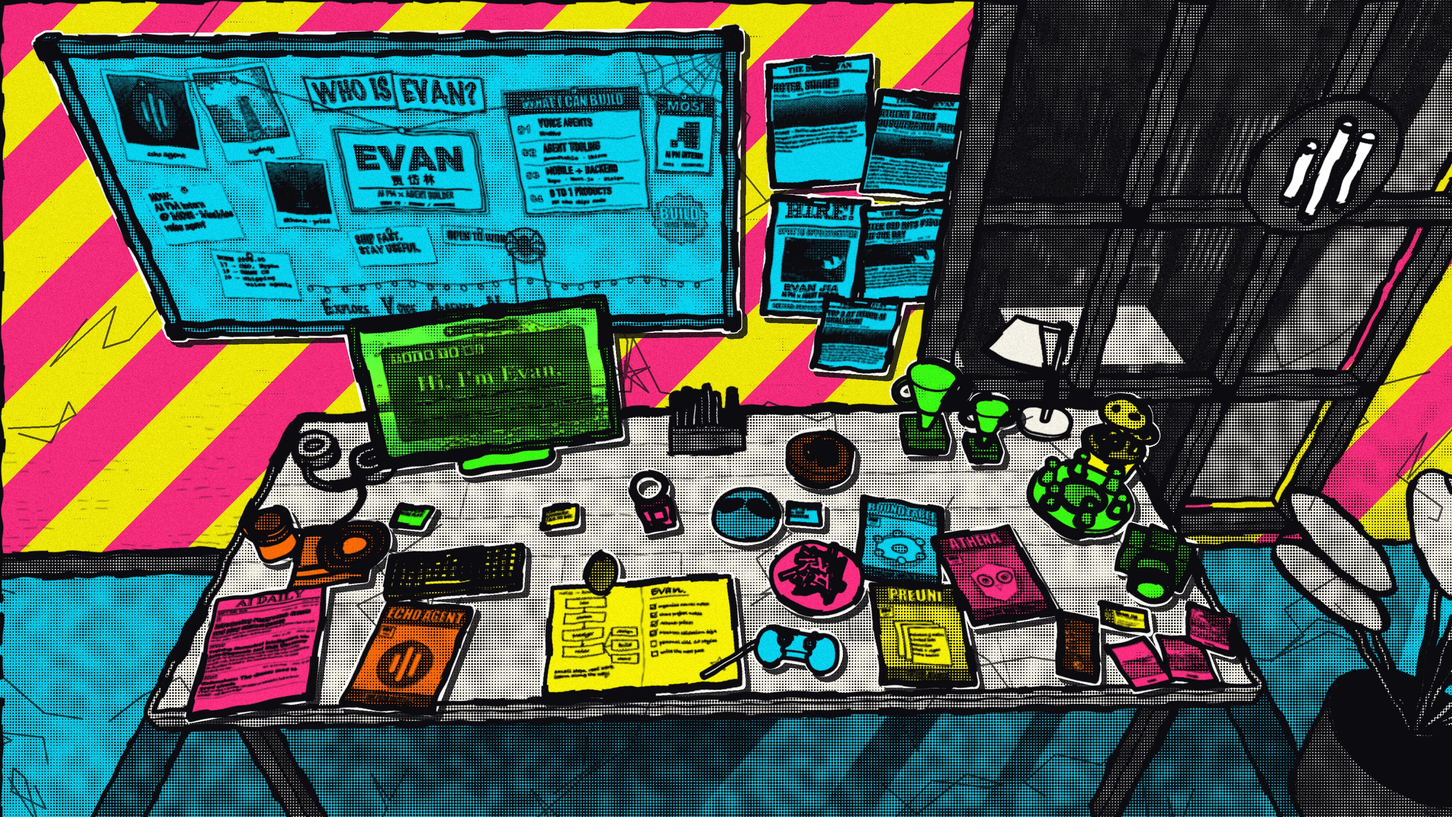
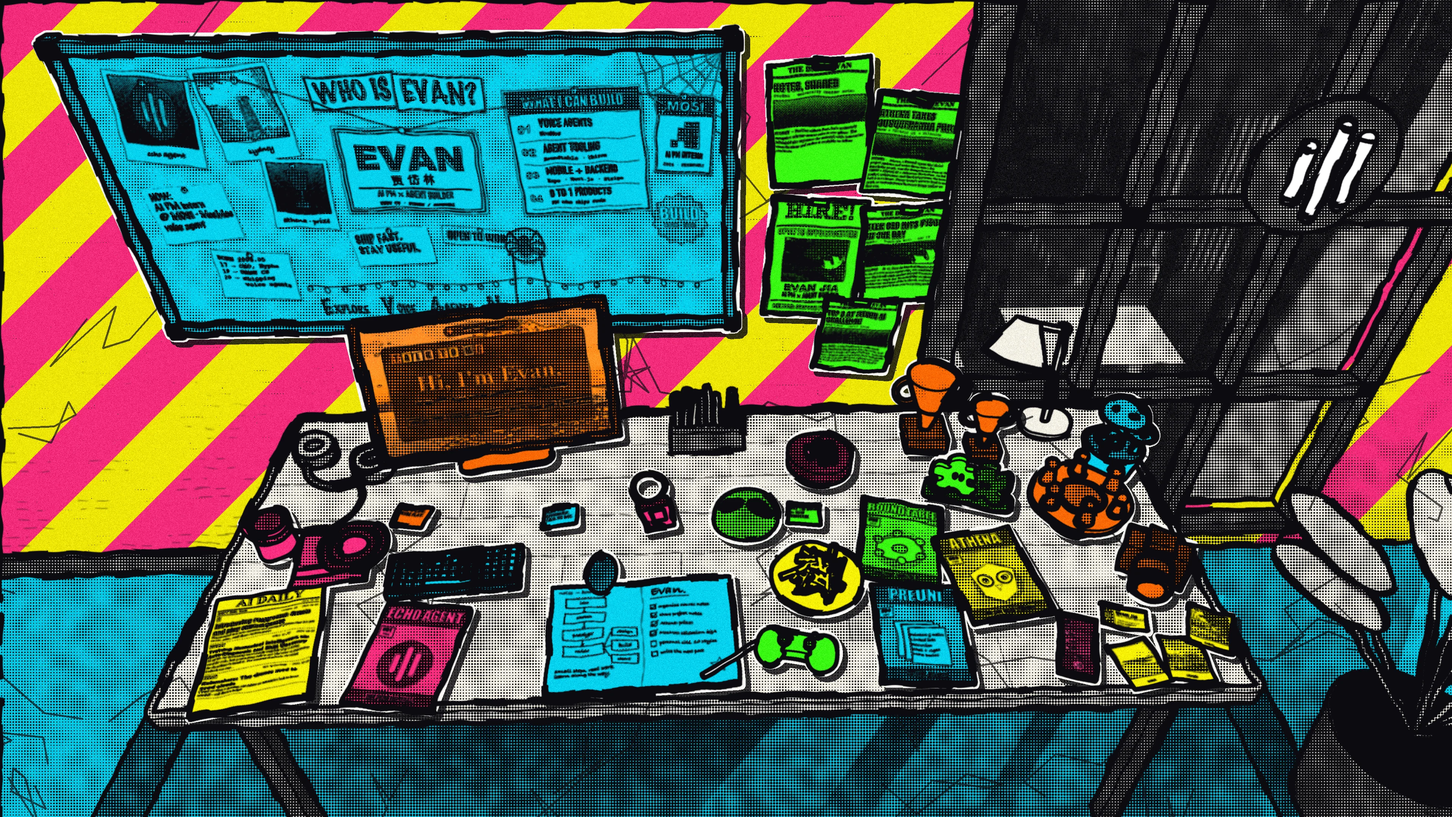
feat(builderspace): put the club on the desk and in its own panel
Evan is president of BuilderSpace, a bilingual builders club that
started at UNSW (builderspace.dev). The club's mascots, an amber and a
black puzzle piece fitted together, now stand under the desk lamp as a
figurine: textures.py traces both outlines and the eyes from the club
logo, and layout.py extrudes them with a bevel, a glowing rim on the
black piece and a dark stand. The desk is re-rendered in all ten
universes; every other hotspot keeps its box.

The figurine opens a president panel linking the club site, which also
gets a timeline entry, an intro sentence, a chat topic and a line in
Echo Agent's prompt. The club is still applying for Arc affiliation, so
the copy says "started at UNSW" and a test rejects wording that implies
official status. Asset versions are bumped so visitors fetch the new
renders.

diff --git a/002/site/js/content.js b/002/site/js/content.js
@@ -34,6 +34,7 @@ export const HOTS = {
   notebook: { panel: 'blog' },
   hypha: { panel: 'hypha' },
   mosi: { panel: 'mosi' },
+  builderspace: { panel: 'builderspace' },
   news: { panel: 'news' },
   photos: { panel: 'photos' },
   projects: { panel: 'projects' },
@@ -60,6 +61,7 @@ export const LABELS = {
   notebook: { zh: '博客 · 日记', en: 'Blog · Journal' },
   hypha: { zh: 'Hypha · 17 岁的创业', en: 'Hypha · founder at 17' },
   mosi: { zh: '模思智能 · 实习', en: 'MOSI · internship' },
+  builderspace: { zh: 'BuilderSpace · 创客社主席', en: 'BuilderSpace · club president' },
   news: { zh: '今日新闻', en: 'News desk' },
   photos: { zh: '摄影', en: 'Photography' },
   projects: { zh: '全部项目', en: 'All projects' },
@@ -80,12 +82,12 @@ export const PANELS = {
     body: L(
       [
         '我是贾岱林，英文名 Evan，20 岁，在悉尼的新南威尔士大学（UNSW）读计算机科学，方向是机器学习（ML）和计算机视觉（CV）。上大学之前，我在北京带过一家 7 个人的 Web3 公司，核心产品做到过单日营业额 10 万元以上。',
-        '现在我主要做语音 Agent。白天在上海模思智能做 AI 产品经理实习，负责 MosMos 的语音 Agent：产品经理的活干完，我会自己把代码写完、推上线。',
+        '现在我主要做语音 Agent。白天在上海模思智能做 AI 产品经理实习，负责 MosMos 的语音 Agent：产品经理的活干完，我会自己把代码写完、推上线。课外，我在 UNSW 和两位同学发起了 BuilderSpace 创客社，任主席，带大家一起把想法做成能用的东西。',
         '我喜欢从头到尾自己负责一件事：设计、前端、后端、部署、推广。野心这件事上我比较直白：想做一个真正有用的东西，宁可瞄得太高打偏，也不想瞄低了打中。',
       ],
       [
         'I’m Evan Jia (贾岱林), 20, studying Computer Science at UNSW in Sydney, focusing on machine learning (ML) and computer vision (CV). Before university I ran a seven-person Web3 company in Beijing and took its core product past ¥100K in single-day revenue.',
-        'These days I mostly build voice agents. By day I’m an AI product manager intern at MOSI in Shanghai, owning the voice agent in MosMos: once the PM work is done, I write the code and ship it myself.',
+        'These days I mostly build voice agents. By day I’m an AI product manager intern at MOSI in Shanghai, owning the voice agent in MosMos: once the PM work is done, I write the code and ship it myself. Outside work I started BuilderSpace, a builders club at UNSW, with two classmates, and I’m its president: we help people turn ideas into things that work.',
         'I like owning a thing end to end: design, frontend, backend, deploy, launch. I’m ambitious in a fairly plain way: I want to build something that actually matters, and I’d rather aim too high and miss than aim low and hit.',
       ],
     ),
@@ -101,8 +103,8 @@ export const PANELS = {
       {
         heading: L('时间线', 'Timeline'),
         items: L(
-          ['2023.7 – 2024.7　创立 Hypha，任 CEO，带 7 人团队', '2025.2　入读 UNSW 计算机科学', '2025.6 – 2026.5　PreUni：课程笔记分享站', '2026.6 – 7　Roundtable 开源，拿下飞书 AI 校园挑战赛 Agent 赛道 Top 3', '2026.7 – 8　Athena 获 Susquehanna Prize；Akeso 入围 ICON × Lyra 决赛', '2026.9 至今　模思智能 AI 产品经理实习'],
-          ['Jul 2023 – Jul 2024　Founded Hypha, CEO of a team of seven', 'Feb 2025　Started Computer Science at UNSW', 'Jun 2025 – May 2026　PreUni: course notes, shared', 'Jun – Jul 2026　Open-sourced Roundtable; Top 3 in the Agent track of the Feishu AI Campus Challenge', 'Jul – Aug 2026　Athena won the Susquehanna Prize; Akeso reached the ICON × Lyra final', 'Sep 2026 – now　AI PM intern at MOSI'],
+          ['2023.7 – 2024.7　创立 Hypha，任 CEO，带 7 人团队', '2025.2　入读 UNSW 计算机科学', '2025.6 – 2026.5　PreUni：课程笔记分享站', '2026.6 – 7　Roundtable 开源，拿下飞书 AI 校园挑战赛 Agent 赛道 Top 3', '2026.7 – 8　Athena 获 Susquehanna Prize；Akeso 入围 ICON × Lyra 决赛', '2026.9 至今　模思智能 AI 产品经理实习', '2026.10 至今　和两位同学发起 BuilderSpace 创客社，任主席'],
+          ['Jul 2023 – Jul 2024　Founded Hypha, CEO of a team of seven', 'Feb 2025　Started Computer Science at UNSW', 'Jun 2025 – May 2026　PreUni: course notes, shared', 'Jun – Jul 2026　Open-sourced Roundtable; Top 3 in the Agent track of the Feishu AI Campus Challenge', 'Jul – Aug 2026　Athena won the Susquehanna Prize; Akeso reached the ICON × Lyra final', 'Sep 2026 – now　AI PM intern at MOSI', 'Oct 2026 – now　Started BuilderSpace, a builders club at UNSW, with two classmates; president'],
         ),
       },
       {
@@ -157,6 +159,29 @@ export const PANELS = {
     ],
     tags: ['Flutter', 'Go', 'ASR', 'Tool calling', 'PRD'],
     links: [{ label: L('公司官网', 'Company site'), href: 'https://home.mosi.cn/' }],
+  },
+  // 社团还在申请 Arc 认证：文案只说「从 UNSW 起步」，不写成 UNSW 的官方社团（测试会查）
+  builderspace: {
+    kicker: L('社团 · 2026.10 – 至今', 'CLUB · OCT 2026 – NOW'),
+    title: L('BuilderSpace 创客社', 'BuilderSpace'),
+    sub: L('主席 · 从 UNSW 起步的中英双语创客社', 'President · a bilingual builders club that started at UNSW'),
+    image: { src: L('assets/projects/builderspace.webp', 'assets/projects/builderspace.webp'), alt: L('BuilderSpace 的吉祥物：一黄一黑两块拼在一起的拼图', 'The BuilderSpace mascots: an amber and a black puzzle piece fitted together') },
+    body: L(
+      [
+        'BuilderSpace 是我和两位同学一起发起的创客社，从 UNSW 起步，中英双语。口号是「Bring an idea. Make it work.」：带着想法来，把它做成能用的东西。',
+        '想解决的问题很具体：很多同学成绩很好，却卡在实习这一步，缺的是一段真正做过的项目经历。没有队友、没有节奏、做出来没人试用，那就来这里一起做。桌上那两块拼在一起的拼图，就是社团的吉祥物。',
+      ],
+      [
+        'BuilderSpace is a bilingual builders club I started with two classmates at UNSW. The line is “Bring an idea. Make it work.”: show up with an idea, leave with something that runs.',
+        'The problem it tackles is concrete: plenty of strong students get stuck at the internship step because they have never actually shipped a project. No teammates, no rhythm, nobody to try what they built. So we build it together. The two puzzle pieces fitted together on the desk are the club’s mascots.',
+      ],
+    ),
+    bullets: L(
+      ['作为主席，负责社团的整体方向、对接 Arc（UNSW 学生会），以及和合作方的沟通', '至少两周一场线下活动：Vibe Coding 教学、项目展示、找队友', '做什么不设限：App、网站、小工具，甚至研究都可以', '免费加入，项目归作者所有'],
+      ['As president I own the club’s overall direction, our relationship with Arc (UNSW’s student organisation) and conversations with partners', 'An in-person session at least every two weeks: vibe-coding workshops, demos, finding teammates', 'Build anything: apps, websites, small tools, even research', 'Free to join; your project stays yours'],
+    ),
+    tags: ['President', 'Builders club', 'Bilingual', 'UNSW'],
+    links: [{ label: L('社团官网', 'Club site'), href: 'https://www.builderspace.dev' }],
   },
   echo: {
     kicker: L('团队协作', 'TEAM COLLABORATION'),
@@ -274,7 +299,7 @@ export const PANELS = {
 };
 
 // 阅读模式的顺序
-export const INTRO_ORDER = ['about', 'mosi', 'roundtable', 'athena', 'awards', 'preuni', 'hypha', 'echo', 'projects', 'blog', 'journal', 'photos', 'news', 'friends', 'contact'];
+export const INTRO_ORDER = ['about', 'mosi', 'builderspace', 'roundtable', 'athena', 'awards', 'preuni', 'hypha', 'echo', 'projects', 'blog', 'journal', 'photos', 'news', 'friends', 'contact'];
 
 // 这几个面板的正文来自 assets/data/<file>.json（从上一代网站导入，见 pipeline/import_legacy.mjs）
 export const DYNAMIC = {
@@ -313,6 +338,7 @@ export const CHAT = {
     { id: 'who', keys: ['你是谁', '介绍', 'who', 'about', 'yourself', 'evan'], q: L('你是谁？', 'Who are you?'), a: L('贾岱林，Evan。20 岁，UNSW 计算机在读，主攻机器学习和计算机视觉，现在在上海模思智能做 AI 产品经理实习。我做语音 Agent：定方向，也自己写代码上线。', 'Evan Jia, 20. CS at UNSW, focusing on machine learning and computer vision; currently an AI PM intern at MOSI in Shanghai. I build voice agents: I set direction and ship the code myself.') },
     { id: 'echo', suggested: false, keys: ['回声', 'echo'], q: L('参与过 Echo Agent 吗？', 'Did you contribute to Echo Agent?'), a: L('我帮助团队制作 Echo Agent。', 'I helped the team build Echo Agent.'), panel: 'echo' },
     { id: 'mosi', keys: ['实习', '模思', 'mosi', 'mosmos', 'intern', 'work'], q: L('实习做了什么？', 'What did you do at MOSI?'), a: L('主导 MosMos 语音 Agent 的选中提问、多轮对话和工具调用，并且自己把代码写完上线；另外做了会议转写的豆包兜底策略，参与了 MOSS-VL 和 Realtime 的 API 文档。', 'I owned selection Q&A, multi-turn and tool calling for the MosMos voice agent and shipped the code myself, built the Doubao fallback for meeting transcription, and contributed to the MOSS-VL and Realtime API docs.'), panel: 'mosi' },
+    { id: 'builderspace', keys: ['builderspace', 'buildersoc', '创客社', '社团', 'club', 'society', '主席', 'president'], q: L('你在 UNSW 办的社团是什么？', 'What’s the club you run at UNSW?'), a: L('BuilderSpace 创客社，我是主席。从 UNSW 起步、中英双语，帮想做东西的同学找队友，一起把项目做上线。官网：builderspace.dev', 'BuilderSpace, a bilingual builders club that started at UNSW; I’m the president. We help students find teammates and ship their projects together. Site: builderspace.dev'), panel: 'builderspace' },
     { id: 'styles', keys: ['风格', '宇宙', 'style', 'universe', 'blender', '怎么做'], q: L('为什么有十种画风？', 'Why ten styles?'), a: L('同一张桌子在 Blender 里建模，一个机位渲出底色、光影和轮廓，再合成十种印刷风格。点桌上的面具，或者按空格，就换一个宇宙。', 'One desk modelled in Blender, one camera, rendered into colour, light and outline passes, then composited into ten print styles. Click the mask on the desk, or press Space, to jump universes.') },
     { id: 'contact', keys: ['联系', '邮箱', 'email', 'contact', 'hire', '招'], q: L('怎么联系你？', 'How do I reach you?'), a: L('jiaedwin0605@gmail.com。AI 产品、Agent 方向的机会都欢迎聊。', 'jiaedwin0605@gmail.com. Happy to talk about AI product and agent roles.'), panel: 'contact' },
   ],

diff --git a/002/workers/api/src/index.js b/002/workers/api/src/index.js
@@ -19,6 +19,7 @@ About you:
 - Now: AI PM intern at MOSI (上海模思智能) on MosMos, an AI voice assistant. You owned "ask about selected text + multi-turn + tool calling" for its voice agent and shipped the code yourself; you also built the Doubao fallback for meeting transcription and contributed to the MOSS-VL / Realtime API docs.
 - Echo Agent (回声): you helped the team build it. This is the only public detail about your involvement. Mention it only if asked directly; do not infer a founder or leadership role or add product, technical, team-size or promotional details.
 - Roundtable: an open-source visual workbench for multi-agent work (MIT); it placed Top 3 in the Agent track of the ByteDance Feishu AI Campus Challenge. Athena: a Discord agent plus live knowledge graph that won the Susquehanna Prize at the UNSW × Mistral AI × Atlassian Hackathon. Chiron Prompt: an open-source prompt enhancer for the terminal.
+- BuilderSpace (创客社, builderspace.dev): a bilingual builders club that started at UNSW, which you started with two classmates in October 2026; you are its president and own its overall direction, the relationship with Arc (UNSW's student organisation) and partner conversations. Students bring an idea, find teammates and ship it together, with an in-person session at least every two weeks. It is still applying for Arc affiliation, so never call it an official or affiliated UNSW society.
 - PreUni (preuni.xyz): your university course notes, shared. Hypha: you founded it at 17 and led a team of seven; its core product passed ¥100K in single-day revenue.
 - Also a photographer (street, portrait, architecture, wildlife) and you write about AI and agents on your blog. This site was modelled in Blender and rendered in ten styles.
 - Contact: jiaedwin0605@gmail.com · GitHub: github.com/EdwinjJ1 · LinkedIn: linkedin.com/in/evan-jia-152108369 · 小红书 (Xiaohongshu): xiaohongshu.com/user/profile/6147eee3000000000201bfe4 · Open to opportunities.

diff --git a/002/site/index.html b/002/site/index.html
@@ -7,7 +7,7 @@
   <meta name="description" content="贾岱林 Evan：AI 产品经理 × 全栈 Agent 开发者。一张桌子，十个宇宙。">
   <meta property="og:title" content="Evan Jia · One desk, ten universes">
   <meta property="og:description" content="AI PM who ships voice agents. Click the mask to switch universe.">
-  <meta property="og:image" content="assets/styles/comic@1x.webp?v=20261010-2">
+  <meta property="og:image" content="assets/styles/comic@1x.webp?v=20261017-1">
   <meta name="theme-color" content="#14121c">
   <link rel="preconnect" href="https://fonts.googleapis.com">
   <link rel="preconnect" href="https://fonts.gstatic.com" crossorigin>
@@ -15,7 +15,7 @@
   <link rel="stylesheet" href="css/main.css">
   <link rel="stylesheet" href="css/news.css">
   <link rel="stylesheet" href="css/mobile.css?v=20261011-1">
-  <link rel="preload" as="image" href="assets/styles/comic@1x.webp?v=20261010-2">
+  <link rel="preload" as="image" href="assets/styles/comic@1x.webp?v=20261017-1">
 </head>
 <body>
   <div id="loader" role="status">
@@ -65,6 +65,6 @@
     </div>
   </noscript>
 
-  <script type="module" src="js/app.js?v=20261016-1"></script>
+  <script type="module" src="js/app.js?v=20261017-1"></script>
 </body>
 </html>

diff --git a/002/site/js/app.js b/002/site/js/app.js
@@ -1,12 +1,12 @@
 // 入口：状态、交互、面板（静态 + 从旧站导入的内容）、对话、阅读模式。画面交给 stage.js，坐标换算在 geometry.js。
 import { groupAlbums } from './albums.js';
 import { streamChat } from './chat.js';
-import { ALBUMS, CHAT, DYNAMIC, HOTS, INTRO_ORDER, LABELS, NOTEBOOK, PANELS, STYLES, UI, matchTopic } from './content.js?v=20261016-1';
+import { ALBUMS, CHAT, DYNAMIC, HOTS, INTRO_ORDER, LABELS, NOTEBOOK, PANELS, STYLES, UI, matchTopic } from './content.js?v=20261017-1';
 import * as G from './geometry.js?v=20261011-1';
 import { renderJournal } from './journal.js?v=20261012-2';
 import { coverUrl, createPlayer, fmtTime } from './music.js';
 import { renderNews } from './news.js';
-import { createStage, hexToRgb, styleUrl } from './stage.js?v=20261011-1';
+import { createStage, hexToRgb, styleUrl } from './stage.js?v=20261017-1';
 import { createTour } from './tour.js';
 import { CENTER as WEB_CENTER, earthOf, hostOf, webLayout } from './web.js';
 

diff --git a/002/site/js/stage.js b/002/site/js/stage.js
@@ -69,7 +69,7 @@ function loadImage(src) {
 }
 
 /** 一个风格的贴图地址；hi=true 是全尺寸。手机上的小地图也用它，跟舞台走同一份缓存。 */
-export const styleUrl = (id, hi = false, base = 'assets/') => `${base}styles/${id}${hi ? '' : '@1x'}.webp?v=20261010-2`;
+export const styleUrl = (id, hi = false, base = 'assets/') => `${base}styles/${id}${hi ? '' : '@1x'}.webp?v=20261017-1`;
 
 export function hexToRgb(hex) {
   const h = hex.replace('#', '');

diff --git a/002/pipeline/textures.py b/002/pipeline/textures.py
@@ -1,7 +1,8 @@
 # /// script
-# dependencies = ["numpy", "pillow"]
+# dependencies = ["numpy", "pillow", "opencv-python-headless"]
 # ///
-"""场景里所有“印刷品”的贴图：软木板、剪报、海报、项目刊物、笔记本、屏幕、砖墙、木纹、楼体。
+"""场景里所有“印刷品”的贴图：软木板、剪报、海报、项目刊物、笔记本、屏幕、砖墙、木纹、楼体；
+外加 BuilderSpace 拼图吉祥物的轮廓（builderspace.json，从 assets/ 里的 logo 描出来）。
 
 用法：uv run pipeline/textures.py blender/tex
 内容全部来自简历；改文案改这里，然后重跑 Blender。
@@ -584,8 +585,71 @@ def facade(seed, wall, w=512, h=1024, cols=10, rows=26):
     return im
 
 
+def builderspace_mascot(src=Path(__file__).parent / "assets" / "builderspace-mark.webp"):
+    """BuilderSpace 的吉祥物：从官网 logo 描出一黄一黑两块拼图的轮廓、眼睛和颜色，layout.py 拿去挤成桌上的摆件。
+
+    坐标以整对拼图的高为 1、左下角为原点、y 朝上；eyes 是 [cx, cy, rx, ry]。
+    """
+    import cv2
+
+    rgba = np.asarray(Image.open(src).convert("RGBA")).astype(np.int16)
+    rgb, solid = rgba[..., :3], rgba[..., 3] > 128
+    lum = rgb.mean(-1)
+
+    def disk(r):
+        return cv2.getStructuringElement(cv2.MORPH_ELLIPSE, (2 * r + 1, 2 * r + 1))
+
+    def largest(mask):
+        n, lab, stats, _ = cv2.connectedComponentsWithStats(mask.astype(np.uint8), connectivity=8)
+        return lab == 1 + int(np.argmax(stats[1:, cv2.CC_STAT_AREA])) if n > 1 else mask
+
+    def hexof(mask):
+        return "#%02x%02x%02x" % tuple(int(c) for c in np.median(rgb[mask], 0))
+
+    def blobs(mask, keep):
+        n, lab, stats, _ = cv2.connectedComponentsWithStats(mask.astype(np.uint8), connectivity=8)
+        found = sorted((s for s in stats[1:] if s[cv2.CC_STAT_AREA] > 40 and keep(s)), key=lambda s: -s[cv2.CC_STAT_AREA])[:2]
+        return sorted(found, key=lambda s: s[0])
+
+    def op(mask, kind, r):
+        return cv2.morphologyEx(mask.astype(np.uint8), kind, disk(r)) > 0
+
+    # 黄块：黄色像素连成一片（眼睛和高光用闭运算补上）。黑块压在黄块前面，带一道白光边：
+    # 不是黄色的不透明像素都归黑块，黄块边上那圈细亮边用开运算去掉；剩下的才是黄块
+    amber = largest(op(solid & (rgb[..., 0] > 150) & (rgb[..., 0] - rgb[..., 2] > 60), cv2.MORPH_CLOSE, 6))
+    black = largest(op(solid & ~amber, cv2.MORPH_OPEN, 5))
+    black = largest(solid & (cv2.GaussianBlur(black.astype(np.float32), (0, 0), 7) > 0.5))   # 抹掉交界处的毛刺
+    masks = [largest(op(solid & ~black, cv2.MORPH_OPEN, 2)), black]
+    ys, xs = np.nonzero(masks[0] | masks[1])
+    x0, y1, h = xs.min(), ys.max(), ys.max() - ys.min()
+
+    def norm(x, y):
+        return [round(float(x - x0) / h, 4), round(float(y1 - y) / h, 4)]
+
+    # 眼睛：黄块上是深色的竖椭圆，黑块上是发亮的竖椭圆；都离边缘远一点，避开白光边和交界处的阴影
+    inner = [cv2.erode(m.astype(np.uint8), disk(r)) > 0 for m, r in zip(masks, (24, 18))]
+    eye_masks = [inner[0] & (lum < 100), inner[1] & (lum > 180)]
+    pieces = []
+    for name, mask, core, eye_mask in zip(("amber", "black"), masks, (amber, black & (lum < 70)), eye_masks):
+        contours, _ = cv2.findContours(mask.astype(np.uint8), cv2.RETR_EXTERNAL, cv2.CHAIN_APPROX_NONE)
+        c = max(contours, key=cv2.contourArea)[:, 0].astype(np.float32)
+        k = np.ones(7) / 7   # 像素台阶先抹平，再抽稀
+        c = np.stack([np.convolve(np.r_[c[-3:, i], c[:, i], c[:3, i]], k, "valid") for i in (0, 1)], 1)
+        c = cv2.approxPolyDP(c.reshape(-1, 1, 2).astype(np.float32), 0.6, True)[:, 0]
+        eyes = blobs(eye_mask, lambda s: s[cv2.CC_STAT_HEIGHT] > 1.3 * s[cv2.CC_STAT_WIDTH] and s[cv2.CC_STAT_HEIGHT] < 0.2 * h)
+        pieces.append({
+            "name": name,
+            "color": hexof(core),
+            "eye_color": hexof(eye_mask) if eye_mask.any() else "#000000",
+            "outline": [norm(x, y) for x, y in c[::-1]],   # 图像 y 朝下，倒过来变成逆时针
+            "eyes": [[*norm(s[0] + s[2] / 2, s[1] + s[3] / 2), round(s[2] / 2 / h, 4), round(s[3] / 2 / h, 4)] for s in eyes],
+        })
+    return {"aspect": round(float(xs.max() - x0) / h, 4), "pieces": pieces}
+
+
 def main(out):
     out.mkdir(parents=True, exist_ok=True)
+    (out / "builderspace.json").write_text(json.dumps(builderspace_mascot()))
     board().save(out / "board.png")
     clips = [
         ("NOTES, SHARED", "PreUni · university course notes", "notes", None,

diff --git a/002/blender/layout.py b/002/blender/layout.py
@@ -3,16 +3,19 @@
 俯视机位、铺满物件、墙上软木板 + 剪报，右侧黑钢框落地窗外是楼群。
 每个可点的东西带 hot 名字，前端按它开面板：
   board / press / monitor / keyboard / mask（切换宇宙）/ zine-echo / zine-roundtable / zine-athena / zine-preuni
-  notebook（博客、日记）/ phone / trophy / hypha / roundtable / camera + photos（摄影）/ mosi / news（报纸）/ projects（手柄）/ friends（杯子）/ music（唱片）/ contact / fries
+  notebook（博客、日记）/ phone / trophy / hypha / roundtable / camera + photos（摄影）/ mosi / builderspace（拼图吉祥物）
+  news（报纸）/ projects（手柄）/ friends（杯子）/ music（唱片）/ contact / fries
 """
+import json
 import math
+import os
 import random
 
 import bmesh
 import bpy
 from mathutils import Euler, Matrix, Vector
 
-from kit import M, T, add, ball, box, cyl, light, plane, slab, torus
+from kit import ROOT, M, T, add, ball, box, cyl, light, plane, slab, torus
 
 WY = 0.58  # 后墙内表面
 rng = random.Random(7)
@@ -42,6 +45,27 @@ def decal(name, w, h, xy, image, yaw=0.0, z=0.002, hot=None, thick=0.0, edge="#f
 def rod(name, p0, p1, r, mat, hot=None, seg=12):
     p0, p1 = Vector(p0), Vector(p1)
     return cyl(name, r, (p1 - p0).length, (p0 + p1) / 2, mat, rot=(p1 - p0).to_track_quat("Z", "Y").to_euler(), seg=seg, hot=hot)
+
+
+def standee(name, outline, size, depth, mat, parent, hot=None, rim=None):
+    """把 2D 轮廓（逆时针，高 1 为单位）立起来挤成厚片：轮廓在 XZ 平面、正面朝 -Y，边缘倒圆角；
+    给了 rim 就用它画倒角那一圈（正反面的描边）。"""
+    bm = bmesh.new()
+    front = [bm.verts.new((u * size, 0, v * size)) for u, v in outline]
+    back = [bm.verts.new((u * size, depth, v * size)) for u, v in outline]
+    bm.faces.new(front)
+    bm.faces.new(back[::-1])
+    n = len(outline)
+    for i in range(n):
+        bm.faces.new((front[i], back[i], back[(i + 1) % n], front[(i + 1) % n])).smooth = True
+    bmesh.ops.recalc_face_normals(bm, faces=bm.faces)
+    ob = add(name, bm, mat, hot=hot, parent=parent)
+    bev = ob.modifiers.new("bevel", "BEVEL")
+    bev.width, bev.segments, bev.limit_method, bev.angle_limit = depth * 0.22, 3, "ANGLE", R(50)
+    if rim:
+        ob.data.materials.append(rim)
+        bev.material = 1
+    return ob
 
 
 def tbox(name, size, loc, mat, roof):
@@ -275,6 +299,22 @@ def build_right():
         cyl(f"tr_cup_{name}", 0.032 * s, 0.11 * s, (tx, ty, T + 0.18 * s), mat, r2=0.07 * s, hot="trophy")
         for sd in (-1, 1):
             torus(f"tr_handle_{name}{sd}", 0.036 * s, 0.007 * s, (tx + sd * 0.064 * s, ty, T + 0.185 * s), mat, rot=(math.pi / 2, 0, 0), hot="trophy", seg=20, sub=8)
+    # BuilderSpace 创客社的吉祥物：一黄一黑两块拼图拼在一起，站在台灯照着的那块桌面上。
+    # 轮廓和眼睛从官网 logo 描出来（textures.py 的 builderspace_mascot）；黑块和 logo 里一样带一圈暖白光边、眼睛发光
+    with open(os.path.join(ROOT, "tex", "builderspace.json")) as f:
+        mascot = json.load(f)
+    size, depth, stand_h, (bx, by), byaw = 0.13, 0.024, 0.008, (0.715, 0.115), R(-20)
+    half = mascot["aspect"] / 2
+    slab("bs_stand", mascot["aspect"] * size + 0.024, depth + 0.036, stand_h, 0.014, (bx, by, T + stand_h / 2), M("bs_stand", "#18181b", 0.35), rot=(0, 0, byaw), hot="builderspace")
+    root = empty("bs_root", (bx, by, T + stand_h), (0, 0, byaw))
+    for p in mascot["pieces"]:
+        dark = p["name"] == "black"
+        outline = [(u - half, v) for u, v in p["outline"]]
+        rim = M("bs_rim", "#fff1cf", 0.4, emit=1.5) if dark else None
+        standee(f"bs_{p['name']}", outline, size, depth, M(f"bs_{p['name']}", p["color"], 0.3), root, hot="builderspace", rim=rim).location.y = -depth / 2
+        eye = M(f"bs_eye_{p['name']}", p["eye_color"], 0.3, emit=3.0 if dark else 0.0)
+        for k, (u, v, rx, ry) in enumerate(p["eyes"]):
+            ball(f"bs_eye_{p['name']}{k}", 1.0, ((u - half) * size, -depth / 2, v * size), eye, scale=(rx * size, 0.0025, ry * size), hot="builderspace", parent=root)
     # 台灯
     white = M("lamp", "#f4f1ea", 0.4)
     cyl("lamp_base", 0.075, 0.016, (1.02, 0.42, T + 0.008), white)
